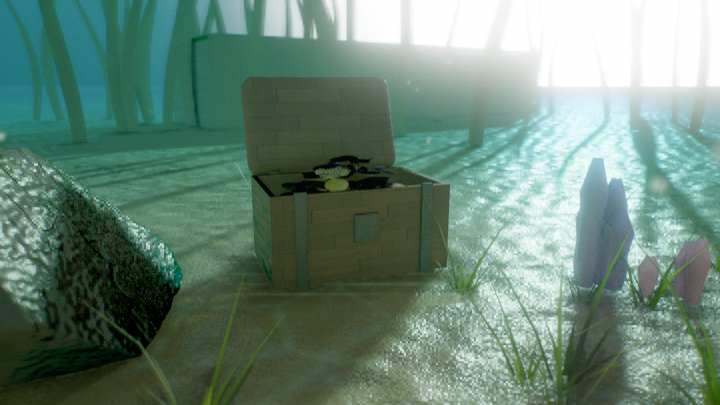
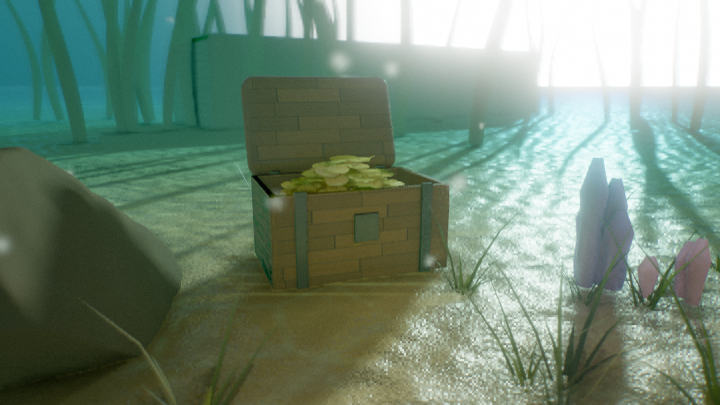
Treasure chest: match the reference more closely (five render passes)
Warmer dry sand near the camera (shallower sun-column depth and a sand
albedo tweak in the scene's engine copy), a dark brown rock, diffuse gold
coins with a fuller heap, browner seaweed with less transmission, and softer
caustics. Ledger entries updated.

Claude-Session: https://claude.ai/code/session_01CrqiDHUxRRMtQAfhoBc2eP

diff --git a/scenes/treasure-chest.html b/scenes/treasure-chest.html
@@ -4632,7 +4632,7 @@ void main(){
   mineral=step(.90,gh)*.55;
   mica=step(.992,hash12(floor(p*260.)+7.));
   rip=ripH(p);}
- vec3 sandDry=mix(vec3(.66,.58,.44),vec3(.50,.42,.30),n2)*(.86+.22*grain)*(.9+.2*vn(p*2.7));
+ vec3 sandDry=mix(vec3(.84,.66,.44),vec3(.62,.46,.28),n2)*(.86+.22*grain)*(.9+.2*vn(p*2.7));
  sandDry*=(1.-mineral*.5)*(.94+.1*rip);
  vec3 sandWet=sandDry*vec3(.42,.40,.37);
  float leaf=0.;vec3 jungle=vec3(.03,.08,.014);
@@ -17404,7 +17404,7 @@ const grid=buildGrid((x,z)=>BASE+.22*(fbm2(x*.09+4,z*.09+1,3)-.5)+.05*(vn2(x*.7,
 eng.setTerrain(grid,{mode:'island',skirt:false,water:false});
 eng.setFog({density:0,falloff:.04,horizon:[1e6,2e6],rayleigh:0,mie:0,g:.76});
 eng.setClouds({coverage:0});
-eng.setWaterMedium({absorb:[.22,.05,.025],scatter:[.05,.3,.36],depth:2});
+eng.setWaterMedium({absorb:[.22,.05,.025],scatter:[.05,.3,.36],depth:1.1});
 
 /* ---------- camera: a low three-quarter view at the chest, slightly above it ---------- */
 const CAM={pos:[-.55,BASE+1.25,3.4],tgt:[.1,BASE+.45,0],fov:44*DEG};
@@ -17436,17 +17436,17 @@ eng.addObject({m:eng.addMesh(mergeG(iron)),p:[0,0,0],s:1,rot:[0,0,0],mat:{a:[.16
 const coinParts=[];
 for(let k=0;k<520;k++){
  const x=(rnd()*2-1)*.52,z=(rnd()*2-1)*.33,e=(x/.54)**2+(z/.36)**2;if(e>1)continue;
- const y=.07+(.62*Math.sqrt(1-e)+.1)*Math.pow(rnd(),.7);     /* heap on the floor, rising toward the rim and past it */
+ const y=.07+(.62*Math.sqrt(1-e)+.1)*Math.pow(rnd(),.45);     /* heap on the floor, rising toward the rim and past it */
  const a=rnd()*TAU,tl=(rnd()*.4+.05)*(rnd()<.5?1:.3);
  const n=v3.norm([Math.sin(a)*tl,1,Math.cos(a)*tl]);
  const c=rotY([x,y,z],CH.yaw);coinParts.push(coin(v3.add(c,[0,BASE,0]),n,.072+.012*rnd(),12));}
 for(let k=0;k<34;k++){const x=-.9+rnd()*1.5,z=1.0+rnd()*.7;const d=Math.hypot(x-.1,z);if(d<.7)continue;
  coinParts.push(coin([x,BASE+.012,z],v3.norm([(rnd()-.5)*.3,1,(rnd()-.5)*.3]),.072,12));}
-const gold=eng.addObject({m:eng.addMesh(mergeG(coinParts)),p:[0,0,0],s:1,rot:[0,0,0],mat:{a:[1,.6,.16],m:1,r:.3,clearcoat:.4,clearcoatRough:.08}});
+const gold=eng.addObject({m:eng.addMesh(mergeG(coinParts)),p:[0,0,0],s:1,rot:[0,0,0],mat:{a:[1,.7,.24],m:0,r:.4,clearcoat:.15,clearcoatRough:.1}});
 
 /* ---------- rock at the left (algae-dark crevices), wreck far back, coral at the right ---------- */
 const rockG=genRock(5);
-eng.addObject({m:eng.addMesh(place(rockG,{s:1.05,mid:[0,0,0],yaw:.7,at:[-1.9,BASE+.2,.7]})),p:[0,0,0],s:1,rot:[0,0,0],mat:{a:[.44,.32,.2],m:0,r:.85,mode:2}});
+eng.addObject({m:eng.addMesh(place(rockG,{s:1.05,mid:[0,0,0],yaw:.7,at:[-1.9,BASE+.2,.7]})),p:[0,0,0],s:1,rot:[0,0,0],mat:{a:[.1,.075,.05],m:0,r:.9}});
 
 const wreckHull=place(genRoundedBox(15,3,4.6,.25,3),{mid:[0,1.2,0],rx:0,yaw:.42,at:[4,BASE,-17]});
 const wreckRibs=[];for(let k=0;k<6;k++){const t=k/5;wreckRibs.push(place(genBox(.28,2.8,4.6),{mid:[-6.5+13*t,1.2,0],yaw:.42,at:[4,BASE,-17]}));}
@@ -17475,7 +17475,7 @@ const weed=[];
 for(let k=0;k<22;k++){const a=rnd()*TAU,rr=.9+rnd()*1.9,x=Math.cos(a)*rr-.2,z=Math.sin(a)*rr*.8+.2;
  if(Math.hypot(x,z)<.9)continue;
  weed.push(x,gridH(grid,x,z)-.02,z,.9+rnd()*.6,rnd()*TAU,.05+rnd()*.2,rnd()*TAU,rnd());}
-eng.addFoliage({geom:genGrassClump(12,7,4),instances:new Float32Array(weed),farFrac:.3,mat:{stem:[.1,.1,.04],leaf:[.1,.13,.04],leaf2:[.17,.18,.06],leafRough:.5,trans:.9,normal:.6}});
+eng.addFoliage({geom:genGrassClump(12,7,4),instances:new Float32Array(weed),farFrac:.3,mat:{stem:[.1,.1,.04],leaf:[.12,.1,.04],leaf2:[.2,.17,.07],leafRough:.5,trans:.4,normal:.6}});
 
 /* ---------- caustics: a procedural caustic net projected from above (the sun's light through the surface) ---------- */
 function causticImage(N,cells,seedC){const d=new Uint8Array(N*N*4);
@@ -17489,7 +17489,7 @@ function causticImage(N,cells,seedC){const d=new Uint8Array(N*N*4);
  return {data:d,w:N,h:N};}
 if(Q.get('cau')!=='0'){
  eng.addProjector({image:causticImage(512,30,3),pos:[0,BASE+15,0],target:[0,BASE,0],fov:58*DEG,mode:'light',
-  intensity:Q.has('cint')?+Q.get('cint'):280,occlusion:true,bias:.05,static:true,near:.5,far:60});}
+  intensity:Q.has('cint')?+Q.get('cint'):220,occlusion:true,bias:.05,static:true,near:.5,far:60});}
 
 /* ---------- suspended particles in the light ---------- */
 eng.addEmitter({kind:'pollen',pos:[0,BASE+2.4,0],count:240,vel:[.02,.02,0],life:9,spread:[4.5,2.2,3.5],size:.045,gravity:-.01,turbulence:.6,color:[.75,.92,.95],alpha:.45,soft:.6});

diff --git a/scenes/treasure-chest.scene.js b/scenes/treasure-chest.scene.js
@@ -56,7 +56,7 @@ const grid=buildGrid((x,z)=>BASE+.22*(fbm2(x*.09+4,z*.09+1,3)-.5)+.05*(vn2(x*.7,
 eng.setTerrain(grid,{mode:'island',skirt:false,water:false});
 eng.setFog({density:0,falloff:.04,horizon:[1e6,2e6],rayleigh:0,mie:0,g:.76});
 eng.setClouds({coverage:0});
-eng.setWaterMedium({absorb:[.22,.05,.025],scatter:[.05,.3,.36],depth:2});
+eng.setWaterMedium({absorb:[.22,.05,.025],scatter:[.05,.3,.36],depth:1.1});
 
 /* ---------- camera: a low three-quarter view at the chest, slightly above it ---------- */
 const CAM={pos:[-.55,BASE+1.25,3.4],tgt:[.1,BASE+.45,0],fov:44*DEG};
@@ -88,17 +88,17 @@ eng.addObject({m:eng.addMesh(mergeG(iron)),p:[0,0,0],s:1,rot:[0,0,0],mat:{a:[.16
 const coinParts=[];
 for(let k=0;k<520;k++){
  const x=(rnd()*2-1)*.52,z=(rnd()*2-1)*.33,e=(x/.54)**2+(z/.36)**2;if(e>1)continue;
- const y=.07+(.62*Math.sqrt(1-e)+.1)*Math.pow(rnd(),.7);     /* heap on the floor, rising toward the rim and past it */
+ const y=.07+(.62*Math.sqrt(1-e)+.1)*Math.pow(rnd(),.45);     /* heap on the floor, rising toward the rim and past it */
  const a=rnd()*TAU,tl=(rnd()*.4+.05)*(rnd()<.5?1:.3);
  const n=v3.norm([Math.sin(a)*tl,1,Math.cos(a)*tl]);
  const c=rotY([x,y,z],CH.yaw);coinParts.push(coin(v3.add(c,[0,BASE,0]),n,.072+.012*rnd(),12));}
 for(let k=0;k<34;k++){const x=-.9+rnd()*1.5,z=1.0+rnd()*.7;const d=Math.hypot(x-.1,z);if(d<.7)continue;
  coinParts.push(coin([x,BASE+.012,z],v3.norm([(rnd()-.5)*.3,1,(rnd()-.5)*.3]),.072,12));}
-const gold=eng.addObject({m:eng.addMesh(mergeG(coinParts)),p:[0,0,0],s:1,rot:[0,0,0],mat:{a:[1,.6,.16],m:1,r:.3,clearcoat:.4,clearcoatRough:.08}});
+const gold=eng.addObject({m:eng.addMesh(mergeG(coinParts)),p:[0,0,0],s:1,rot:[0,0,0],mat:{a:[1,.7,.24],m:0,r:.4,clearcoat:.15,clearcoatRough:.1}});
 
 /* ---------- rock at the left (algae-dark crevices), wreck far back, coral at the right ---------- */
 const rockG=genRock(5);
-eng.addObject({m:eng.addMesh(place(rockG,{s:1.05,mid:[0,0,0],yaw:.7,at:[-1.9,BASE+.2,.7]})),p:[0,0,0],s:1,rot:[0,0,0],mat:{a:[.44,.32,.2],m:0,r:.85,mode:2}});
+eng.addObject({m:eng.addMesh(place(rockG,{s:1.05,mid:[0,0,0],yaw:.7,at:[-1.9,BASE+.2,.7]})),p:[0,0,0],s:1,rot:[0,0,0],mat:{a:[.1,.075,.05],m:0,r:.9}});
 
 const wreckHull=place(genRoundedBox(15,3,4.6,.25,3),{mid:[0,1.2,0],rx:0,yaw:.42,at:[4,BASE,-17]});
 const wreckRibs=[];for(let k=0;k<6;k++){const t=k/5;wreckRibs.push(place(genBox(.28,2.8,4.6),{mid:[-6.5+13*t,1.2,0],yaw:.42,at:[4,BASE,-17]}));}
@@ -127,7 +127,7 @@ const weed=[];
 for(let k=0;k<22;k++){const a=rnd()*TAU,rr=.9+rnd()*1.9,x=Math.cos(a)*rr-.2,z=Math.sin(a)*rr*.8+.2;
  if(Math.hypot(x,z)<.9)continue;
  weed.push(x,gridH(grid,x,z)-.02,z,.9+rnd()*.6,rnd()*TAU,.05+rnd()*.2,rnd()*TAU,rnd());}
-eng.addFoliage({geom:genGrassClump(12,7,4),instances:new Float32Array(weed),farFrac:.3,mat:{stem:[.1,.1,.04],leaf:[.1,.13,.04],leaf2:[.17,.18,.06],leafRough:.5,trans:.9,normal:.6}});
+eng.addFoliage({geom:genGrassClump(12,7,4),instances:new Float32Array(weed),farFrac:.3,mat:{stem:[.1,.1,.04],leaf:[.12,.1,.04],leaf2:[.2,.17,.07],leafRough:.5,trans:.4,normal:.6}});
 
 /* ---------- caustics: a procedural caustic net projected from above (the sun's light through the surface) ---------- */
 function causticImage(N,cells,seedC){const d=new Uint8Array(N*N*4);
@@ -141,7 +141,7 @@ function causticImage(N,cells,seedC){const d=new Uint8Array(N*N*4);
  return {data:d,w:N,h:N};}
 if(Q.get('cau')!=='0'){
  eng.addProjector({image:causticImage(512,30,3),pos:[0,BASE+15,0],target:[0,BASE,0],fov:58*DEG,mode:'light',
-  intensity:Q.has('cint')?+Q.get('cint'):280,occlusion:true,bias:.05,static:true,near:.5,far:60});}
+  intensity:Q.has('cint')?+Q.get('cint'):220,occlusion:true,bias:.05,static:true,near:.5,far:60});}
 
 /* ---------- suspended particles in the light ---------- */
 eng.addEmitter({kind:'pollen',pos:[0,BASE+2.4,0],count:240,vel:[.02,.02,0],life:9,spread:[4.5,2.2,3.5],size:.045,gravity:-.01,turbulence:.6,color:[.75,.92,.95],alpha:.45,soft:.6});

diff --git a/CLAUDE.md b/CLAUDE.md
@@ -38,7 +38,7 @@ Verification-first and deliberate. Before any final answer or critical tool chai
 - **Photo-derived textures.** Verify the albedo on its own before judging the shaded result.
 - **Voxel GI.** It carries light from emitters and dark props out of frame. A colour cast on skin usually means an out-of-frame emitter. Confirm by switching the emitter off.
 - **Iris scene (`scenes/iris.html`).** It needs four engine patches that are not in the upstream engine: `updateMesh(mesh, vb)`; `createEngine({minScale})`; `mat.noProject` (flag 65536); and the skin LUT texel-centre clamp. Re-apply them after any engine update. The patched engine copies live outside this repo.
-- **Underwater (`scenes/treasure-chest.html`).** `setTerrain` water absorbs only for a camera above the surface, so a camera below it sees an above-water look. The scene uses a water-medium patch instead: Beer-Lambert absorption in `fogT`, sun and ambient tinted by the water column, and a replaced water sky. Fog tint cannot express per-channel absorption.
+- **Underwater (`scenes/treasure-chest.html`).** `setTerrain` water absorbs only for a camera above the surface, so a camera below it sees an above-water look. The scene uses a water-medium patch instead: Beer-Lambert absorption in `fogT`, sun and ambient tinted by the water column, and a replaced water sky. Fog tint cannot express per-channel absorption. The sun column depth is 1.1 m: a deeper column makes the sand near the camera teal. The scene's engine copy also warms the dry sand albedo (`sandDry` in `S.terrainFS`). Material `mode:2` is a procedural rock that renders pale in this scene, so the rock uses `mode:0`.
 - **God rays.** The ray pass (`S.raysFS`) adds only HDR pixels above luminance 60 (smoothstep 60→200). Without a sun glow that bright near the sun there are no shafts. A glow too broad hazes the whole frame, so keep the lobe narrow (`pow(dot,24)`, peak ≈ 95).
 - **Scripted edits.** Assert the match count before replacing text. A silently missed replacement cost time earlier.
 - **Eye proportions** (measured from the reference photos): opening width ≈ 2.2 × iris width; opening height ≈ 0.41 × its width; brow centre ≈ 0.5 eye-width above the pupil.
